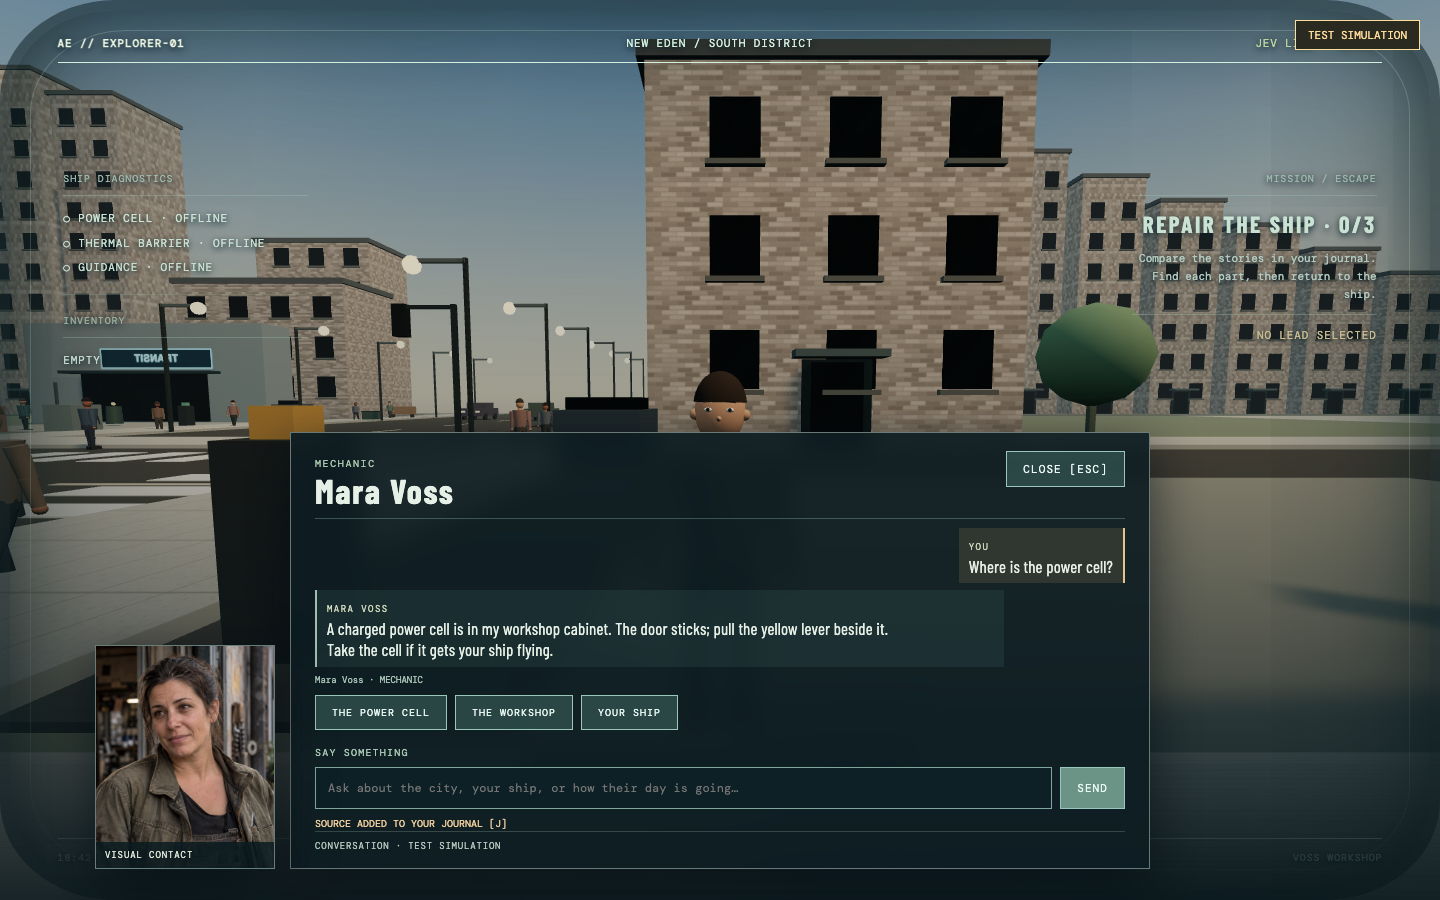
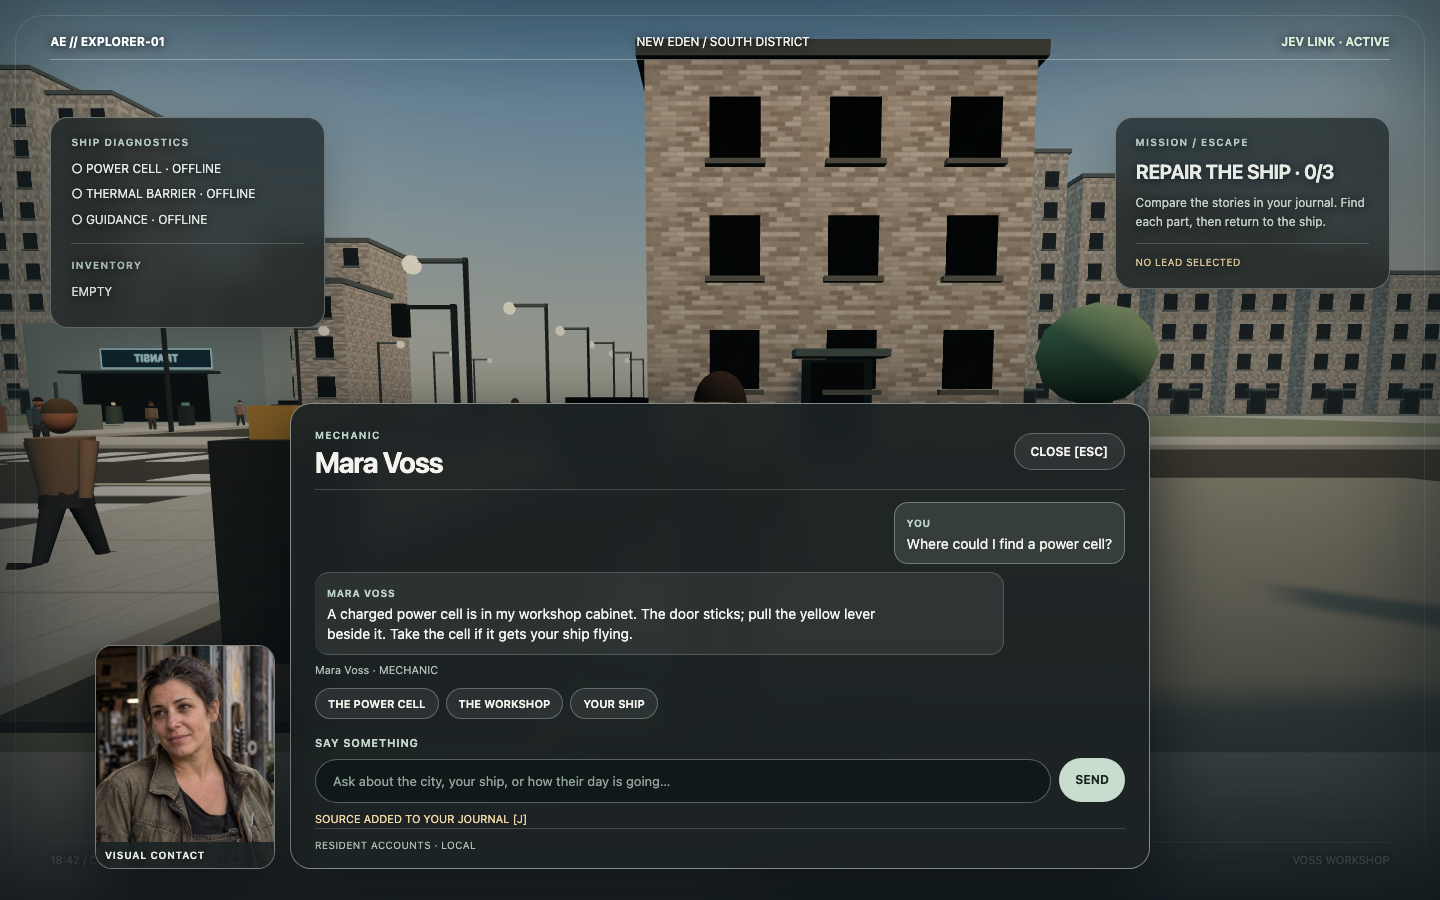
Restyle city UI with GPT-5-inspired theme

diff --git a/src/style.css b/src/style.css
@@ -1,4 +1,3 @@
-@import url('https://fonts.googleapis.com/css2?family=Barlow+Condensed:wght@400;500;600;700;800&family=DM+Mono:wght@400;500&display=swap');
 :root{font-family:'Barlow Condensed',Arial,sans-serif;color:#e8f3ef;background:#14222a}*{box-sizing:border-box}body{margin:0;overflow:hidden}button,input,select{font:inherit}button{cursor:pointer;color:#e9f8f2;border:1px solid #9bc6bc;background:#365c58a8;padding:10px 16px;font-family:'DM Mono',monospace;font-size:11px;letter-spacing:.1em}button:hover{background:#6b9487}button:disabled{opacity:.5;cursor:wait}#game,#game canvas{display:block;width:100vw;height:100vh}.visor{position:fixed;inset:0;pointer-events:none;z-index:3;font:11px 'DM Mono',monospace;letter-spacing:.08em;color:#d5efdf;text-shadow:0 2px 7px #0a2028}.visor-vignette{position:absolute;inset:0;border:10px solid #11252b91;border-radius:8%/11%;box-shadow:inset 0 0 80px #06181aa8,inset 0 0 220px #071b2494}.visor-vignette:before{content:'';position:absolute;inset:20px;border:1px solid #b9e6d33b;border-radius:7%/10%}.visor-top,.visor-bottom{position:absolute;left:4%;right:4%;display:flex;justify-content:space-between;gap:15px;align-items:center;border-color:#9bc9be85}.visor-top{top:4%;border-bottom:1px solid;padding-bottom:12px}.visor-bottom{bottom:4%;border-top:1px solid;padding-top:12px;font-size:10px}.visor-top span:first-child{font-weight:700;color:#edf6e2}#link-status{color:#bbd69c}.reticle{position:absolute;left:50%;top:50%;width:32px;height:32px;transform:translate(-50%,-50%)}.reticle i:first-child{position:absolute;top:15px;left:0;width:32px;height:1px;background:#e1f6e5;box-shadow:0 0 7px #9fe8c4}.reticle i:last-child{position:absolute;left:15px;top:0;width:1px;height:32px;background:#e1f6e5;box-shadow:0 0 7px #9fe8c4}.hud-left,.hud-right{position:absolute;top:19%;width:min(245px,19vw);line-height:1.5}.hud-left{left:4.4%}.hud-right{right:4.4%;text-align:right}.hud-left small,.hud-right small{font-size:10px;color:#a3bfb0;display:block;border-bottom:1px solid #a6c8b95e;padding-bottom:9px;margin-bottom:14px}.hud-left div{margin-bottom:8px}.hud-divider{border-top:1px solid #9bbbaa4a;margin:18px 0!important}.hud-right h2{font:700 23px 'Barlow Condensed';letter-spacing:.11em;margin:0}.hud-right p{font-size:11px;color:#c1d8cd;line-height:1.65;letter-spacing:0}.hud-right #current-lead{border-top:1px solid #aac8af66;padding-top:12px;color:#e1cf9c}.interaction{position:absolute;left:50%;top:57%;transform:translateX(-50%);padding:8px 13px;background:#0e2b2bc7;opacity:0;white-space:nowrap}.interaction.visible{opacity:1}.toast{position:absolute;left:50%;bottom:13%;transform:translateX(-50%);color:#f5daa8;background:#18302cd9;padding:10px 18px;opacity:0;transition:opacity .2s}.toast.visible{opacity:1}.entry{position:fixed;inset:0;z-index:10;display:flex;align-items:center;background:linear-gradient(90deg,#091c26f2 0%,#112c34e8 42%,#0f202454 100%);transition:opacity .3s}.entry.hidden{opacity:0;pointer-events:none}.entry-content{margin-left:8vw;max-width:640px}.overline,.entry-controls,.entry-right,.entry-copy{font-family:'DM Mono',monospace}.overline{letter-spacing:.2em;font-size:11px;color:#c2daa7}.entry h1{font-size:clamp(70px,10vw,150px);line-height:.77;letter-spacing:-.035em;margin:30px 0 38px}.entry h1 em{font-style:normal;color:#b5d4ba}.entry-subtitle{font-size:clamp(29px,3vw,44px);margin:0 0 14px}.entry-copy{font-size:12px;line-height:1.8;max-width:480px;color:#c9d8ce}.entry #enter{margin-top:18px;padding:17px 28px;font-size:13px;border-color:#e1e8c7;background:#a8c4a332;color:#f4f5d9}.entry-controls{font-size:10px;color:#afc6bd;margin-top:27px;letter-spacing:.08em}.entry-right{position:absolute;right:7vw;bottom:9vh;width:230px;border-top:1px solid #d6e4c8;padding-top:15px;font-size:11px;color:#c9dcce}.entry-right strong{display:block;font:600 28px 'Barlow Condensed';letter-spacing:.05em;margin-top:8px}.entry-right p{line-height:1.6}.mode-badge{position:fixed;z-index:20;right:20px;top:20px;padding:7px 12px;background:#2b2a20;color:#ffdd9b;font:11px 'DM Mono';border:1px solid #ffdd9b}.panel-layer{position:fixed;inset:0;z-index:30;display:grid;place-items:center;background:#061a20bc;backdrop-filter:blur(8px);padding:3vw}.panel-layer[hidden],.ending[hidden],.link-warning[hidden],.mode-badge[hidden]{display:none}.conversation-panel,.journal-panel{background:linear-gradient(145deg,#192d30,#101e25);border:1px solid #9abeb2;box-shadow:0 30px 110px #000b,inset 0 0 0 8px #0d1b20;color:#e6f0e6}.conversation-panel{width:min(720px,93vw);padding:30px 38px}.conversation-panel header,.journal-panel header{display:flex;justify-content:space-between;align-items:start;border-bottom:1px solid #7eaaa366;padding-bottom:17px}.conversation-panel small,.journal-panel small,.ending small{color:#abc8ad;font:10px 'DM Mono';letter-spacing:.16em}.conversation-panel h2,.journal-panel h2{font:700 50px/1 'Barlow Condensed';letter-spacing:.05em;margin:8px 0 0}.conversation-body{padding:30px 0 20px;min-height:155px}.conversation-body p{font:26px/1.28 'Barlow Condensed';max-width:590px;margin:0}.conversation-body #conversation-context{font:11px 'DM Mono';color:#a8c3b7;margin-top:20px}.conversation-panel #topics{display:flex;gap:8px;flex-wrap:wrap;margin-bottom:20px}.conversation-panel #topics button{font-size:10px}.conversation-panel label,.journal-panel label{font:10px 'DM Mono';color:#a9c8b5;letter-spacing:.12em}.question-row{display:flex;gap:8px;margin-top:8px}.question-row input{flex:1;min-width:0;background:#0d2025;color:#f2f6e8;border:1px solid #80a79e;padding:12px;font:12px 'DM Mono'}.conversation-panel #conversation-status{min-height:22px;font:10px 'DM Mono';color:#efce9e;margin-top:14px}.journal-panel{width:min(1280px,96vw);height:min(790px,92vh);padding:26px 30px;display:flex;flex-direction:column}.journal-columns{display:grid;grid-template-columns:1.2fr 1fr .8fr;gap:0;min-height:0;flex:1}.journal-columns section{padding:23px;border-right:1px solid #8eaaa448;overflow:auto}.journal-columns section:first-child{padding-left:0}.journal-columns section:last-child{border:0;padding-right:0}.journal-columns h3{font:13px 'DM Mono';letter-spacing:.12em;color:#d6e7d8;border-bottom:1px solid #8eaaa46d;padding-bottom:11px}.journal-columns p{font:11px/1.7 'DM Mono';color:#afc5b6}.journal-card{border-bottom:1px solid #8ea99b55;padding:13px 0}.journal-card strong{display:block;font:19px 'Barlow Condensed';letter-spacing:.04em}.journal-card p{margin:8px 0}.journal-card small{font:10px 'DM Mono';color:#d9c695}.scroll{max-height:100%;overflow:auto}.journal-panel form{display:grid;gap:12px}.journal-panel form label{display:grid;gap:7px}.journal-panel select{background:#0b1e23;color:#e8f1e6;border:1px solid #73978d;padding:9px;font:11px 'DM Mono';width:100%}.journal-panel button{margin-top:6px}.journal-panel footer{display:flex;justify-content:space-between;border-top:1px solid #8eaaa467;padding-top:14px;font:10px 'DM Mono';color:#9db9aa}.assumption-card,.repair-row{font:11px/1.55 'DM Mono';border-bottom:1px solid #829b9055;padding:10px 0}.assumption-card strong{color:#e5d6aa}.link-warning{position:fixed;z-index:35;left:50%;bottom:8%;transform:translateX(-50%);display:flex;align-items:center;gap:16px;padding:12px 16px;border:1px solid #e2b474;background:#2d2926f2;font:11px 'DM Mono';max-width:90vw}.link-warning strong{color:#ffe0a9}.ending{position:fixed;z-index:50;inset:0;display:grid;place-items:center;background:radial-gradient(circle,#274956f2,#07151ff9 70%)}.ending-content{padding:60px;text-align:center;border-block:1px solid #b8d8c9;background:#0c232ab9;max-width:700px}.ending h2{font:700 84px/.82 'Barlow Condensed';letter-spacing:.04em;margin:24px 0}.ending p{font:22px 'Barlow Condensed'}.ending #ending-record{font:11px 'DM Mono';margin:25px 0;color:#c7d9b7}@media(max-width:850px){.hud-left,.hud-right{top:12%;width:29vw}.visor-bottom span:nth-child(2){display:none}.entry-right{display:none}.journal-columns{display:block;overflow:auto}.journal-columns section{border-right:0;border-bottom:1px solid #8eaaa448;padding:15px 0}.journal-panel{overflow:hidden}.link-warning{display:block}.link-warning>*{display:block;margin:5px 0}}
 
 /* Conversation stays on the street: the speaker and city remain visible above the subtitle deck. */
@@ -23,3 +22,155 @@
 #chat-mode{font:9px 'DM Mono',monospace;letter-spacing:.09em;color:#b4c7bc;padding-top:8px;border-top:1px solid #96b5a047}
 @media(max-width:1250px){.resident-portrait{left:auto;right:126px;bottom:auto;top:10px;width:82px;height:82px}.resident-portrait figcaption{display:none}}
 @media(max-width:650px){#conversation.panel-layer{padding:0 2vw 2vh}#conversation .conversation-panel{padding:14px}#conversation .conversation-panel h2{font-size:27px}.conversation-history{max-height:125px}.chat-turn{max-width:95%}.resident-portrait{width:54px;height:54px;right:110px;top:7px}}
+
+/* A GPT-5-inspired reading surface for the game, without product branding. */
+:root{
+  --ink:#f4f3ee;
+  --muted:#b9c1bd;
+  --soft:#88948f;
+  --surface:#1b1f20ed;
+  --surface-raised:#292e2fee;
+  --line:#e7ebe331;
+  --accent:#c9e7d7;
+  --warm:#f0d7a5;
+  font-family:ui-sans-serif,system-ui,-apple-system,BlinkMacSystemFont,"Segoe UI",sans-serif;
+  color:var(--ink);
+  background:#171b1c;
+}
+body,button,input,select{font-family:inherit}
+button{
+  border:1px solid #d9e5de50;
+  border-radius:999px;
+  background:#dce9e014;
+  color:var(--ink);
+  font-size:12px;
+  font-weight:600;
+  letter-spacing:0;
+  padding:10px 16px;
+  transition:background .16s ease,transform .16s ease,border-color .16s ease;
+}
+button:hover{background:#e9f7ed2c;border-color:#d9e5de9c;transform:translateY(-1px)}
+button:focus-visible,input:focus-visible,select:focus-visible{outline:2px solid var(--accent);outline-offset:3px}
+
+.visor{font:12px ui-sans-serif,system-ui,sans-serif;letter-spacing:0;color:#f0f5ef;text-shadow:0 1px 8px #071216c9}
+.visor-vignette{border:0;border-radius:0;box-shadow:inset 0 0 100px #07131666,inset 0 0 190px #07131665}
+.visor-vignette:before{inset:15px;border:1px solid #e8f7ed20;border-radius:28px}
+.visor-top,.visor-bottom{left:3.5%;right:3.5%;border-color:#eff8ee52;padding-block:10px;align-items:center}
+.visor-top{top:2.7%}.visor-bottom{bottom:2.7%;font-size:11px}
+.visor-top span:first-child{font-weight:650;color:#ffffff}
+#link-status{color:#d8f0d8;font-weight:600}
+.hud-left,.hud-right{
+  top:13%;width:min(275px,21vw);
+  padding:18px 20px;
+  border:1px solid #dce8e15c;
+  border-radius:18px;
+  background:#172021b8;
+  box-shadow:0 15px 45px #07151b40;
+  backdrop-filter:blur(16px);
+  line-height:1.45;
+}
+.hud-left{left:3.5%}.hud-right{right:3.5%;text-align:left}
+.hud-left small,.hud-right small{font:600 10px ui-sans-serif,system-ui,sans-serif;letter-spacing:.12em;color:#b9cdc2;border:0;padding:0;margin:0 0 12px}
+.hud-left div{font-size:12px;margin-bottom:8px}
+.hud-divider{border-color:#dce8e13d;margin:15px 0!important}
+.hud-right h2{font:650 20px/1.2 ui-sans-serif,system-ui,sans-serif;letter-spacing:-.025em;margin:0 0 10px}
+.hud-right p{font:12px/1.55 ui-sans-serif,system-ui,sans-serif;color:#d0dcd3;letter-spacing:0;margin:0 0 12px}
+.hud-right #current-lead{font-size:10px;letter-spacing:.04em;padding-top:11px;color:var(--warm);border-color:#dce8e13d}
+.reticle{opacity:.78;scale:.68}
+.interaction,.toast{border:1px solid #e8f7ed45;border-radius:999px;background:#1d2828df;backdrop-filter:blur(12px);font-weight:600;letter-spacing:.02em}
+.interaction{padding:9px 16px}.toast{padding:11px 17px;color:#f6e3be}
+
+.entry{background:linear-gradient(90deg,#151b1bf7 0%,#171d1deb 39%,#14191968 76%,#14191935 100%)}
+body:has(.entry:not(.hidden)) #visor{opacity:0}
+.entry-content{margin-left:7vw;max-width:700px}
+.overline,.entry-controls,.entry-right,.entry-copy{font-family:ui-sans-serif,system-ui,sans-serif}
+.overline{font-size:11px;font-weight:650;letter-spacing:.15em;color:#cde0d3}
+.entry h1{font:650 clamp(64px,8vw,120px)/.91 ui-sans-serif,system-ui,sans-serif;letter-spacing:-.075em;margin:28px 0 31px;color:#faf9f5}
+.entry h1 em{color:#cce7d9}
+.entry-subtitle{font:500 clamp(25px,3vw,36px)/1.14 ui-sans-serif,system-ui,sans-serif;letter-spacing:-.04em;margin:0 0 16px}
+.entry-copy{font-size:15px;line-height:1.6;max-width:475px;color:#d2dad3}
+.entry #enter{margin-top:24px;padding:15px 25px;border:0;background:#edf3ed;color:#202724;font-size:14px;font-weight:700;box-shadow:0 8px 30px #0004}
+.entry #enter:hover{background:#d1e5d8}
+.entry-controls{font-size:11px;color:#b6c7bc;margin-top:23px;letter-spacing:0}
+.entry-right{right:6vw;bottom:8vh;width:270px;padding:18px 0;border-color:#eaf3e65e;font-size:11px;color:#c6d6cc}
+.entry-right strong{font:650 21px/1.2 ui-sans-serif,system-ui,sans-serif;letter-spacing:-.03em;margin-top:10px;color:#f4f6ef}
+.entry-right p{font:13px/1.5 ui-sans-serif,system-ui,sans-serif;color:#c0cfc4}
+.mode-badge{border:1px solid #e5d49a80;border-radius:999px;background:#2c2a22ed;color:#ffdf9d;font:600 10px ui-sans-serif,system-ui,sans-serif}
+
+.panel-layer{background:#0d1419ad;backdrop-filter:blur(12px)}
+.conversation-panel,.journal-panel{border:1px solid #e7eee480;border-radius:22px;background:var(--surface);box-shadow:0 28px 100px #030909b3;color:var(--ink)}
+.conversation-panel header,.journal-panel header{border-color:var(--line);align-items:center}
+.conversation-panel small,.journal-panel small,.ending small{font:600 10px ui-sans-serif,system-ui,sans-serif;letter-spacing:.12em;color:#bdd6c8}
+.conversation-panel h2,.journal-panel h2{font:650 34px/1.1 ui-sans-serif,system-ui,sans-serif;letter-spacing:-.04em}
+#conversation.panel-layer{background:linear-gradient(180deg,#0e191a00 12%,#0d171a32 43%,#0a1116db 100%)}
+#conversation .conversation-panel{width:min(860px,94vw);padding:20px 24px 17px;border:1px solid #ebf2e881;border-radius:21px;background:#1c2223f0;box-shadow:0 18px 70px #03090cb0}
+#conversation .conversation-panel h2{font-size:29px;margin-top:5px}
+#conversation .conversation-body{padding:12px 0;min-height:65px}
+#conversation .conversation-body>p{font:17px/1.45 ui-sans-serif,system-ui,sans-serif;color:#e7eee7}
+#conversation .conversation-body #conversation-context{font:11px ui-sans-serif,system-ui,sans-serif;color:#aebeb4;margin-top:8px}
+.resident-portrait{border-color:#f0f7ed68;border-radius:17px;background:#20282a;box-shadow:0 18px 50px #03090c99}
+.resident-portrait figcaption{background:#1b2223e8;color:#e3eee5;font:600 10px ui-sans-serif,system-ui,sans-serif;letter-spacing:.07em}
+.conversation-history{max-height:182px;gap:8px;scrollbar-color:#8ea299 #202828}
+.chat-turn{border:1px solid #d6e7dc36;border-left:0;border-radius:14px;background:#e3efe714;padding:9px 12px}
+.chat-turn.player{border:1px solid #cfe8d762;border-radius:14px;background:#b8d8c122}
+.chat-turn small{font:650 10px ui-sans-serif,system-ui,sans-serif!important;letter-spacing:.07em;color:#bed2c5!important}
+.chat-turn p{font:14px/1.45 ui-sans-serif,system-ui,sans-serif;letter-spacing:0;color:#f3f5ee;margin:4px 0 0}
+#conversation .conversation-panel #topics{gap:7px;margin-bottom:13px}
+#conversation .conversation-panel #topics button{font-size:11px;padding:8px 12px;background:#dce9e014}
+.conversation-panel label,.journal-panel label{font:600 11px ui-sans-serif,system-ui,sans-serif;letter-spacing:.07em;color:#c4d8cb}
+.question-row{gap:8px;margin-top:9px}
+.question-row input{font:13px ui-sans-serif,system-ui,sans-serif;border:1px solid #d6e5d65c;border-radius:999px;background:#111819;color:#f4f7f1;padding:13px 17px}
+.question-row input::placeholder{color:#92a59b}
+.question-row button,#assumption-form button,#analyze,#restart{border:0;background:#e8f0e9;color:#1b2722;font-weight:700}
+.question-row button:hover,#assumption-form button:hover,#analyze:hover,#restart:hover{background:#c8ddce}
+#conversation .conversation-panel #conversation-status{font:11px ui-sans-serif,system-ui,sans-serif;color:#f1d7a6;margin-top:9px;min-height:16px}
+#chat-mode{font:10px ui-sans-serif,system-ui,sans-serif;letter-spacing:.04em;color:#aebeb2;padding-top:10px;border-color:var(--line)}
+
+.journal-panel{width:min(1220px,96vw);height:min(800px,93vh);padding:25px 29px}
+.journal-panel h2{font-size:36px;margin-top:5px}
+.journal-columns{grid-template-columns:1.17fr 1fr .86fr;gap:0}
+.journal-columns section{border-color:var(--line);padding:22px}
+.journal-columns h3{font:650 12px ui-sans-serif,system-ui,sans-serif;letter-spacing:.06em;color:#deeee2;border-color:var(--line)}
+.journal-columns p{font:13px/1.5 ui-sans-serif,system-ui,sans-serif;color:#bfcfc3}
+.journal-card{border-color:var(--line);padding:13px 0}
+.journal-card strong{font:600 15px ui-sans-serif,system-ui,sans-serif;letter-spacing:0}
+.journal-card p{margin:8px 0;color:#d6e2d9}
+.journal-card small{font:11px ui-sans-serif,system-ui,sans-serif;color:#e7d5ae;letter-spacing:0}
+.journal-panel select{font:13px ui-sans-serif,system-ui,sans-serif;border:1px solid #d6e5d65c;border-radius:10px;background:#151e1f;color:#f2f7f1;padding:10px}
+.journal-panel select option{background:#1d2425}
+.journal-panel form{gap:13px}
+.journal-panel form label{display:grid;gap:8px}
+.journal-panel footer{font:11px ui-sans-serif,system-ui,sans-serif;color:#aebfb2;border-color:var(--line)}
+.assumption-card,.repair-row{font:12px/1.55 ui-sans-serif,system-ui,sans-serif;border-color:var(--line)}
+.assumption-card strong{color:#efd9af}
+.link-warning{border:1px solid #f4d7a98c;border-radius:16px;background:#292720f2;font:12px ui-sans-serif,system-ui,sans-serif;box-shadow:0 15px 55px #0008}
+.link-warning strong{color:#ffdfaa}
+.ending{background:#101819f2;backdrop-filter:blur(18px)}
+.ending-content{border:1px solid #ebf2e879;border-radius:25px;background:#1d2525ed;padding:48px 56px;box-shadow:0 28px 90px #030909a8}
+.ending h2{font:650 clamp(45px,6vw,74px)/.98 ui-sans-serif,system-ui,sans-serif;letter-spacing:-.065em;margin:26px 0}
+.ending p{font:18px/1.5 ui-sans-serif,system-ui,sans-serif}
+.ending #ending-record{font:12px ui-sans-serif,system-ui,sans-serif;color:#c6d5c9}
+
+@media(max-width:850px){
+  .hud-left,.hud-right{top:12%;width:30vw;padding:12px 13px;border-radius:14px}
+  .hud-right h2{font-size:16px}.hud-right p{font-size:11px}
+  .journal-columns{display:block;overflow:auto}.journal-columns section{border-right:0;border-bottom:1px solid var(--line)}
+  .journal-panel{padding:19px 22px}
+}
+@media(max-width:650px){
+  .visor-top,.visor-bottom{left:4%;right:4%;font-size:9px}.visor-top span:nth-child(2){display:none}
+  .hud-left,.hud-right{top:10%;width:42vw;padding:10px;border-radius:12px}
+  .hud-left{left:3%}.hud-right{right:3%}
+  .hud-left small,.hud-right small{font-size:9px;margin-bottom:6px}
+  .hud-left div{font-size:10px}.hud-right h2{font-size:14px}.hud-right p{font-size:10px;line-height:1.35}
+  .entry-content{margin:0 7vw}.entry h1{font-size:clamp(55px,13vw,82px)}.entry-copy{font-size:14px}
+  .entry-controls{font-size:10px;line-height:1.5}
+  #conversation .conversation-panel{padding:15px;border-radius:16px}
+  #conversation .conversation-panel h2{font-size:24px}
+  .conversation-history{max-height:140px}.chat-turn{max-width:95%}
+  .resident-portrait{left:16px;right:auto;top:-79px;width:66px;height:68px;border-radius:12px}
+  .journal-panel{height:93vh;width:96vw;padding:15px}
+  .journal-panel h2{font-size:26px}.journal-columns section{padding:15px 0}
+  .journal-panel footer span{display:none}
+  .ending-content{padding:30px 22px;margin:15px}
+}

diff --git a/src/city/game.ts b/src/city/game.ts
@@ -225,7 +225,7 @@ export function startCityGame(): void {
     if (event.target instanceof HTMLInputElement || event.target instanceof HTMLSelectElement) return;
     if (event.code === 'KeyJ') { if (el('journal').hidden) openJournal(); else closeJournal(); return; }
     if (!el('conversation').hidden || !el('journal').hidden || !entered) return;
-    if (event.code === 'KeyE') interact();
+    if (event.code === 'KeyE') { event.preventDefault(); interact(); }
   });
   window.addEventListener('resize', () => { camera.aspect = innerWidth / innerHeight; camera.updateProjectionMatrix(); renderer.setSize(innerWidth, innerHeight); });
   if (debug) Object.assign(window, { __cityDebug: { getState: () => state, getTarget: () => target, teleport: (x: number, z: number, lookX: number, lookZ: number) => controls.teleport(x, z, new THREE.Vector3(lookX, 1.5, lookZ)) } });

diff --git a/e2e/city.spec.ts b/e2e/city.spec.ts
@@ -12,6 +12,7 @@ test('the explorer hears city claims, records a theory, repairs the ship, and es
   await page.getByRole('button', { name: 'ENTER THE CITY' }).click();
   await aim(page, 'mara', -20, -9, -20, -12); await page.keyboard.press('e');
   await expect(page.getByRole('dialog', { name: 'Conversation' })).toBeVisible();
+  await expect(page.locator('#question')).toHaveValue('');
   await page.locator('#question').fill('Where is a power cell?');
   await page.getByRole('button', { name: 'SEND', exact: true }).click();
   await expect(page.locator('#conversation-line')).toContainText('workshop cabinet');
